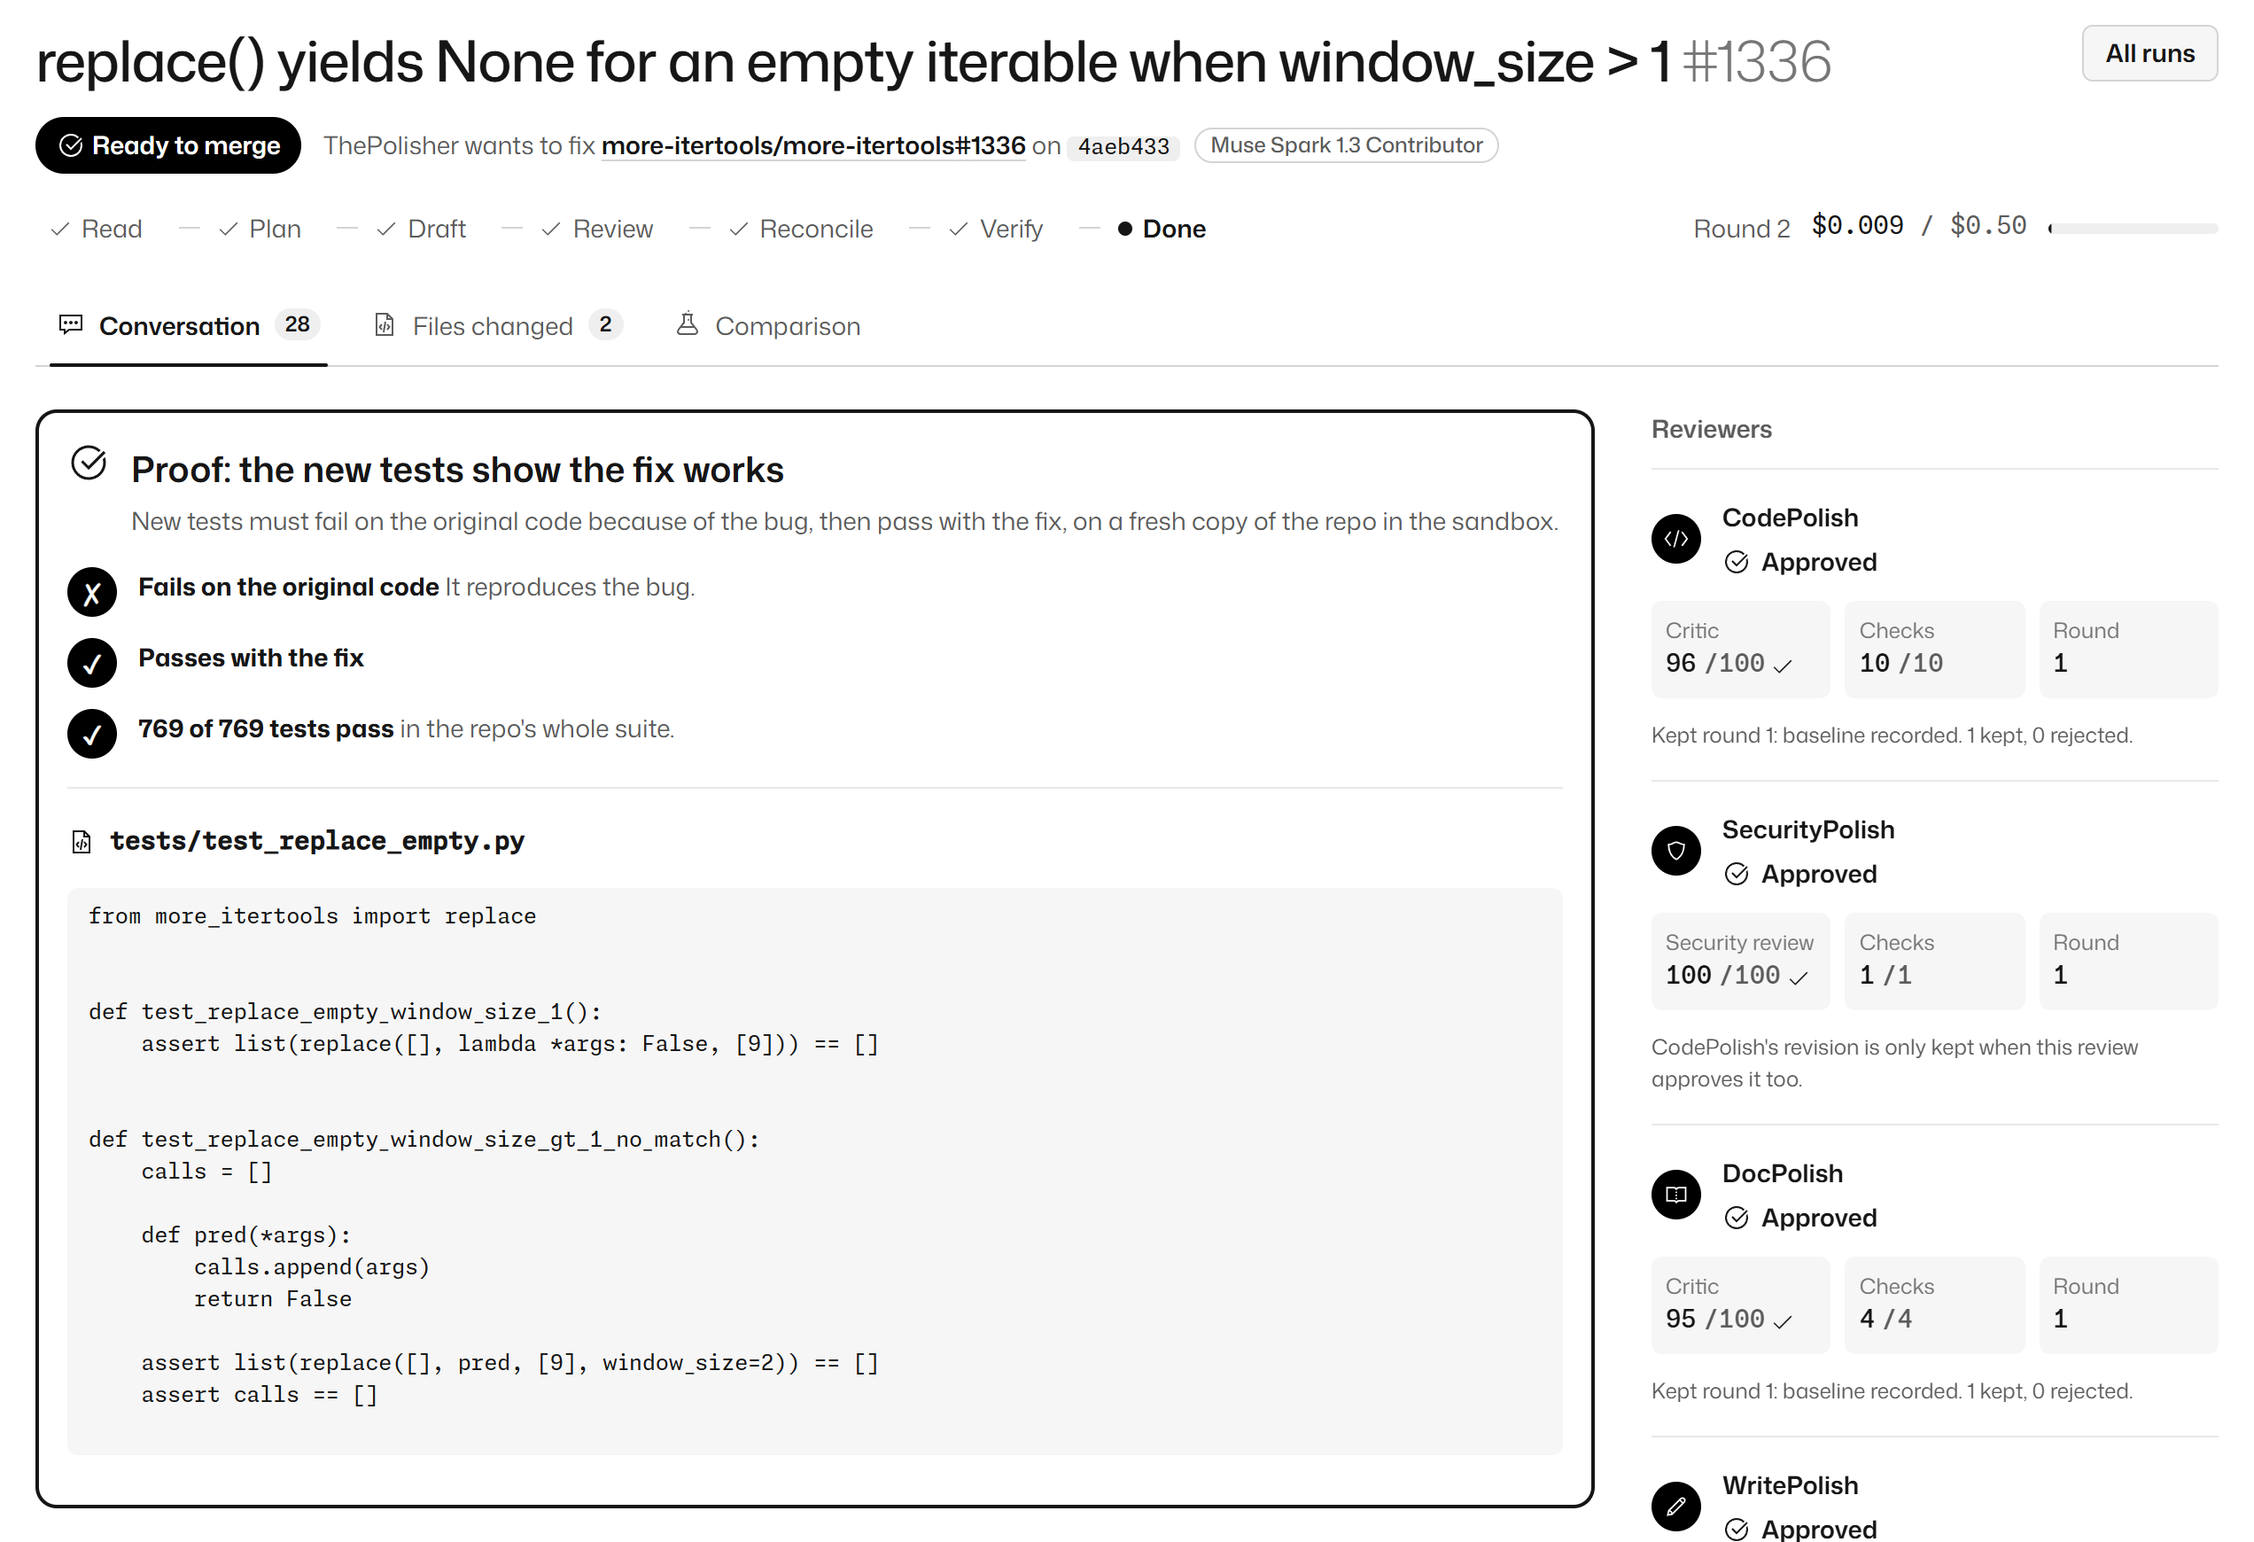
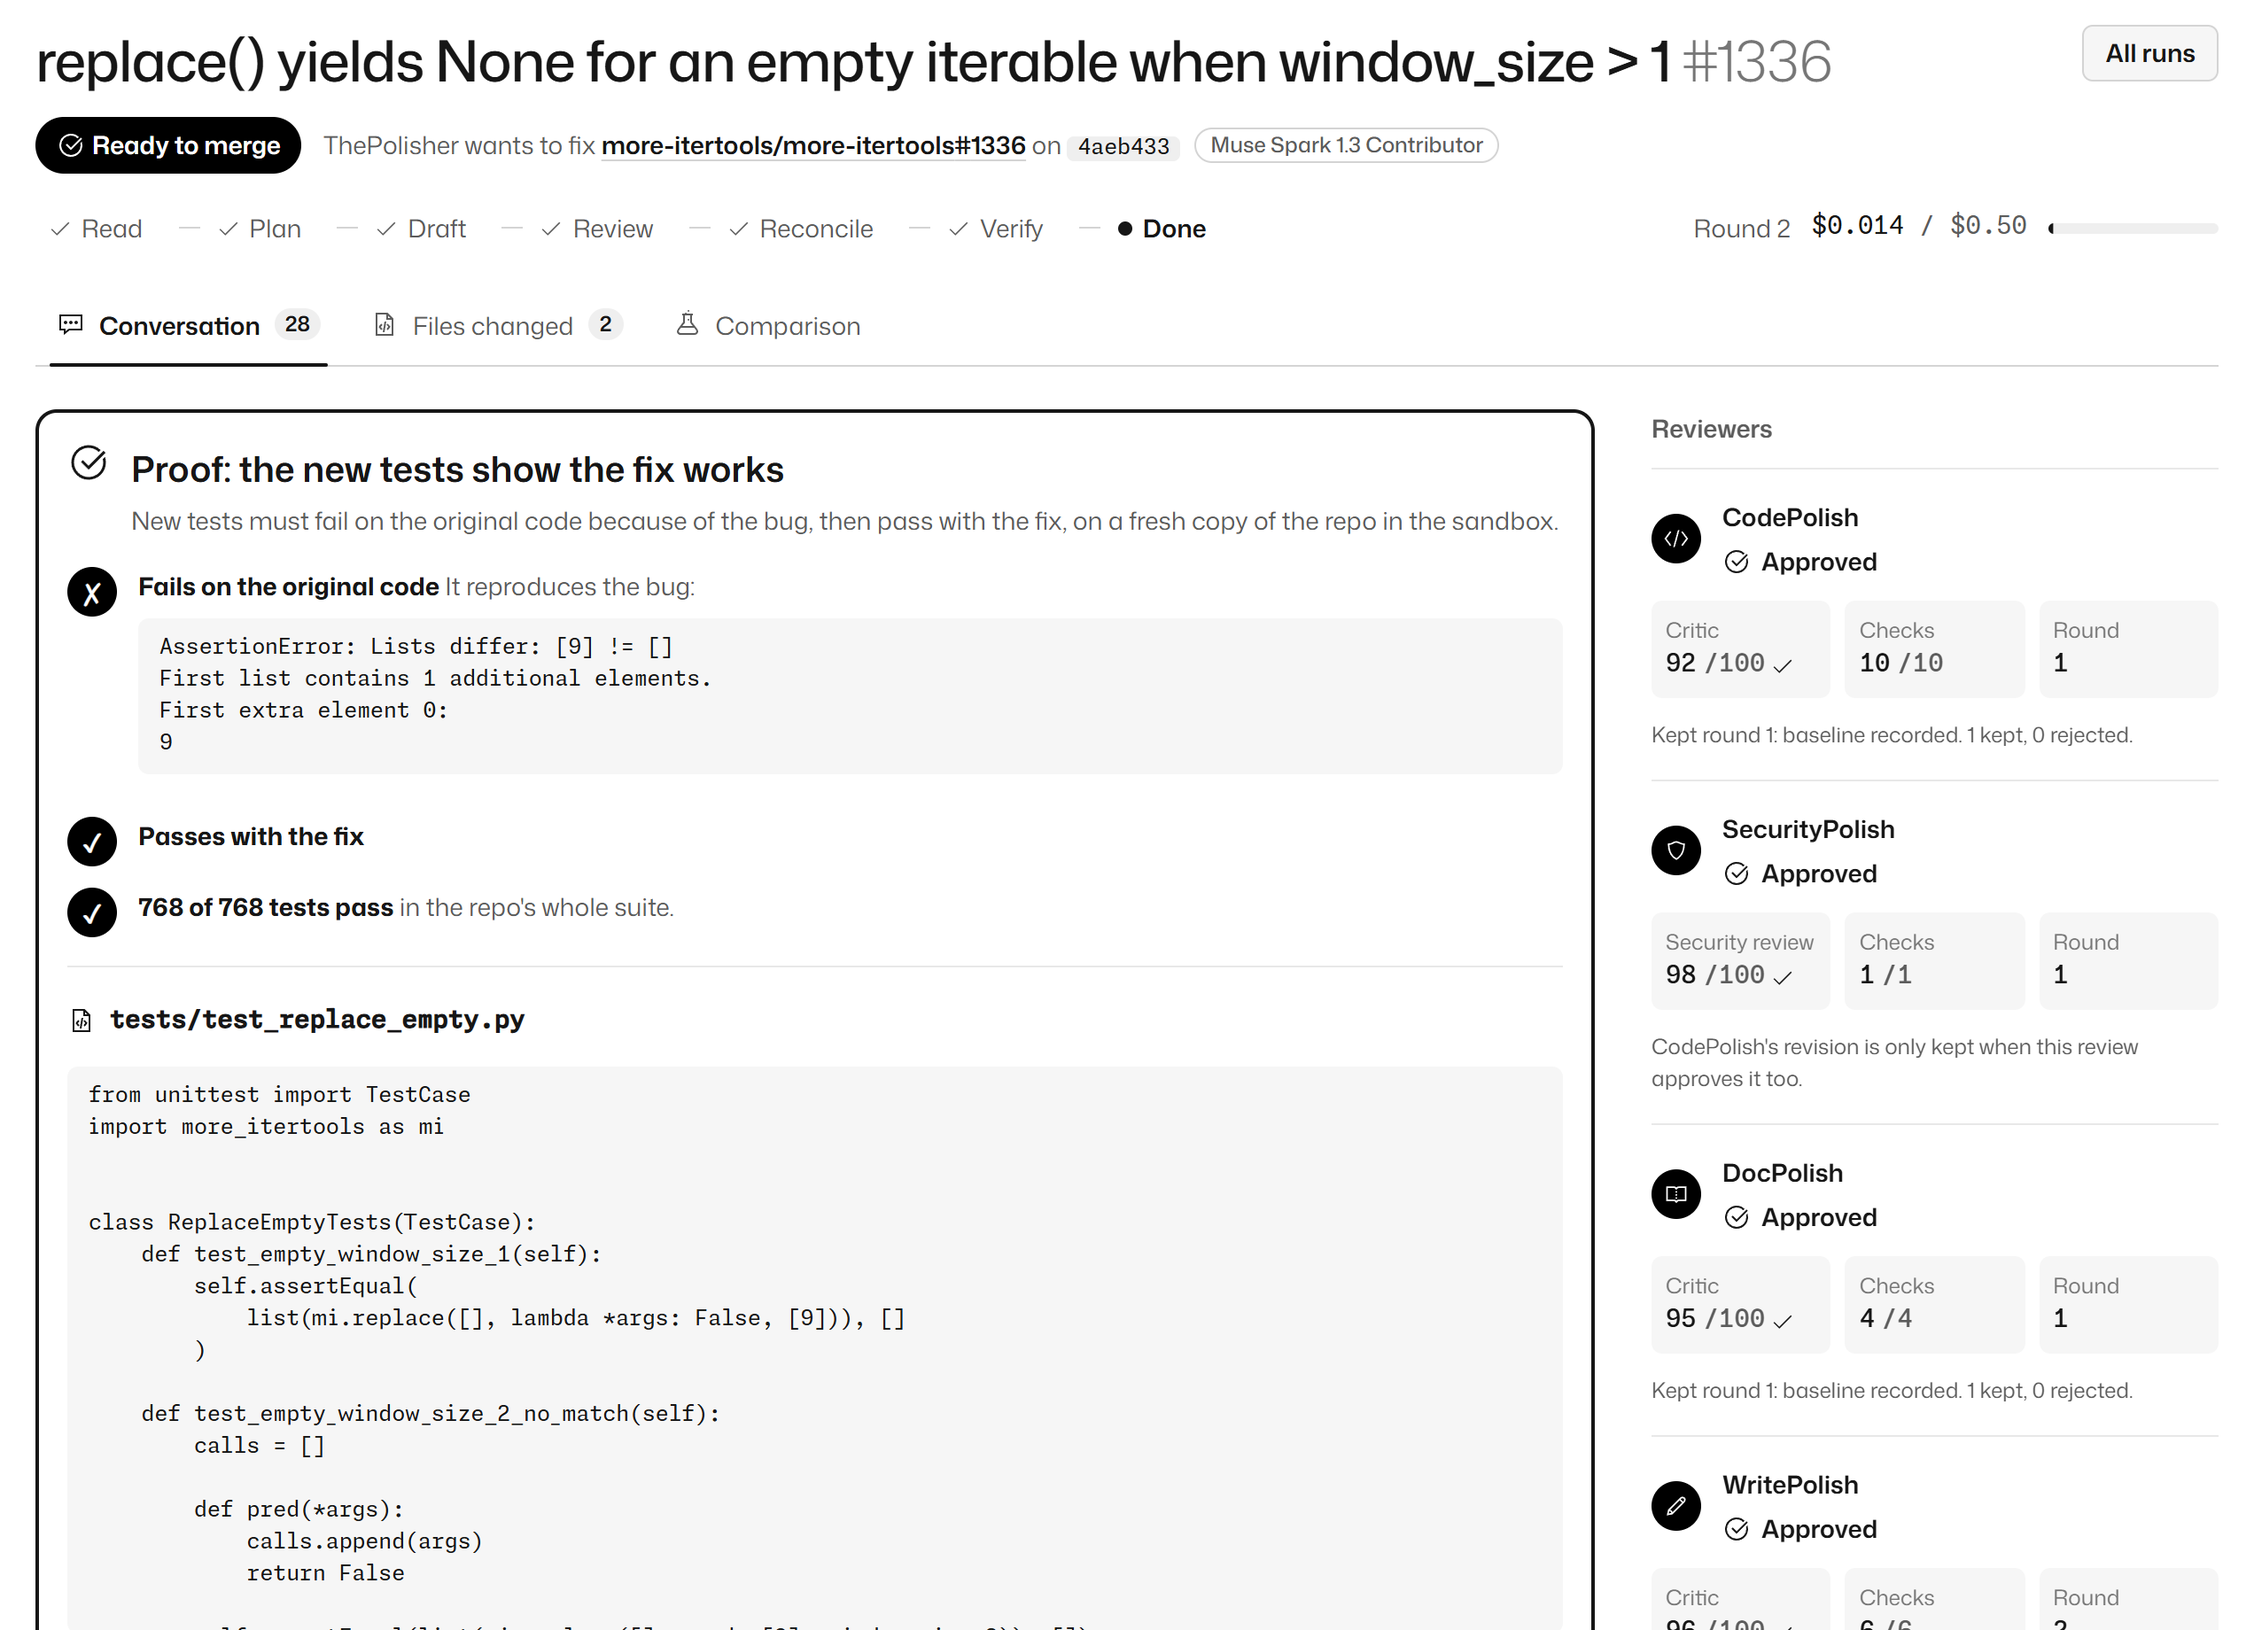
fix(sandbox): drop pytest's hints from the failure output; new Proof card screenshot
The README screenshot now shows the failure on the original code
(AssertionError: Lists differ: [9] != []) from a fresh more-itertools#1336 run.

diff --git a/sandbox-service/modal_app.py b/sandbox-service/modal_app.py
@@ -381,11 +381,14 @@ MISSING_CODE = re.compile(
 
 MAX_EXAMPLE_LINES = 4
 MAX_EXAMPLE_CHARS = 300
+# pytest's advice about its own output, not part of the failure.
+PYTEST_HINT = re.compile(r"^(Use -v to get|Full diff:|\.\.\.Full output truncated)")
 
 
 def reproduced_example(bad: ET.Element) -> str:
     """pytest's own explanation of a failure: its `E` lines, else the failure message."""
-    explained = [l.strip()[1:].strip() for l in (bad.text or "").splitlines() if l.strip().startswith("E ")]
+    lines = [l.strip()[1:].strip() for l in (bad.text or "").splitlines() if l.strip().startswith("E ")]
+    explained = [l for l in lines if not PYTEST_HINT.match(l)]
     text = "\n".join(l for l in explained if l)[:MAX_EXAMPLE_CHARS] if explained else (bad.get("message") or "")
     return "\n".join(text.splitlines()[:MAX_EXAMPLE_LINES])
 

diff --git a/sandbox-service/test_modal_app.py b/sandbox-service/test_modal_app.py
@@ -30,6 +30,12 @@ def test_a_reproducing_failure_gives_its_assertion_as_the_example():
     assert result["example"] == "AssertionError: assert [None] == []\nLeft contains one more item: None"
 
 
+def test_pytest_hints_are_left_out_of_the_example():
+    case = ASSERTION.replace("Left contains one more item: None", "Left contains one more item: None\nE         Use -v to get more diff")
+
+    assert classify_base_failures(junit(case))["example"] == "AssertionError: assert [None] == []\nLeft contains one more item: None"
+
+
 def test_a_reproducing_failure_is_preferred_over_missing_code():
     result = classify_base_failures(junit(MISSING, ASSERTION))
 

diff --git a/README.md b/README.md
@@ -65,9 +65,9 @@ A re-run the next day found two bugs. After fixing both, the five issues they ha
 
 ## Screenshots
 
-**The proof.** The new tests fail on the original code, pass with the fix, and the whole suite still passes. This run on more-itertools#1336 took 158 seconds and cost $0.009.
+**The proof.** The new tests fail on the original code, pass with the fix, and the whole suite still passes. This run on more-itertools#1336 took 148 seconds and cost $0.014.
 
-<img src="assets/screenshot-proof.png" alt="Proof card for more-itertools#1336: the new tests fail on the original code, pass with the fix, and 769 of 769 tests pass" width="100%">
+<img src="assets/screenshot-proof.png" alt="Proof card for more-itertools#1336: the new tests fail on the original code, pass with the fix, and 768 of 768 tests pass" width="100%">
 
 **A finished run.** Every step, every check and every agent's verdict, live as it happens.
 
